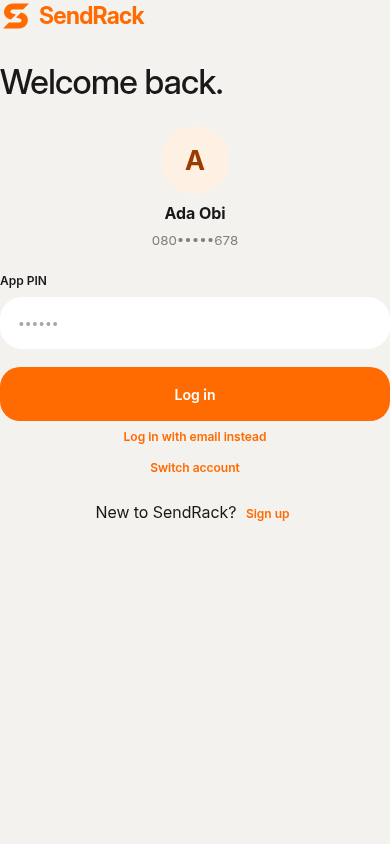
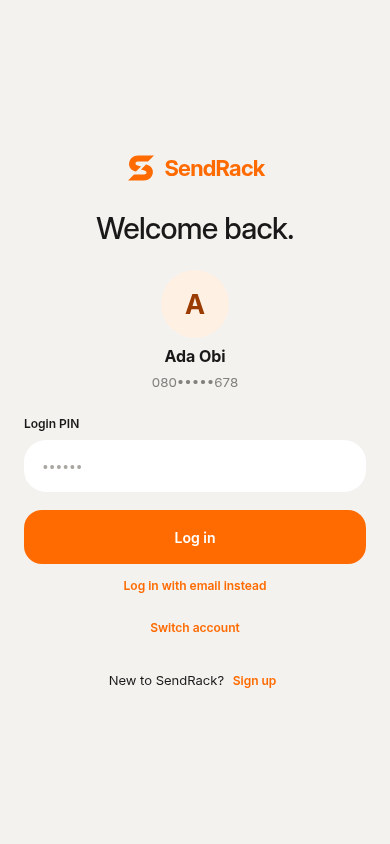
Simplify SendRack entry, add provider bank selection and rider previews

diff --git a/web/app.js b/web/app.js
@@ -51,7 +51,7 @@ function renderGate(){
  features.theme();
  if(gate==='access'){renderAccess();return;}
  if(gate==='pin-setup'||gate==='unlock'){renderLock();return;}
- if(gate==='splash'){app.innerHTML=`<main class="onboard splash"><div class="loading-brand">${brand()}</div><p>DELIVER WITH CONFIDENCE</p><span class="sr-only" role="status">Loading SendRack</span></main>`;return;}
+ if(gate==='splash'){app.innerHTML=`<main class="onboard splash"><div class="loading-brand" aria-hidden="true">${brand().replace('SendRack</div>','</div>')}</div><span class="sr-only" role="status">Loading SendRack</span></main>`;return;}
  if(gate==='setup'){
   if(setupStep===2){renderSignupIdentity();return;}
   const isVendor=setupRole==='vendor',last=setupStep===1;
@@ -105,14 +105,14 @@ function renderAccess(){
  const signing=cloudIntent==='signup'&&cloud;
  const name=remembered?.profile?.ownerName||remembered?.profile?.fullName||remembered?.profile?.businessName||'';
  const phone=remembered?.profile?.phone||'',masked=phone?phone.slice(0,3)+'•••••'+phone.slice(-3):'';
- app.innerHTML=`<main class="onboard access-screen">${brand()}<h1>${signing?'Verify your email.':remembered&&!accessSwitch?'Welcome back.':'Log in to SendRack.'}</h1>${signing?'<p class="subtitle">One code to finish your signup. Your ID upload is saved.</p>':remembered&&!accessSwitch?`<div class="remembered-account"><span class="avatar">${esc(name.slice(0,1).toUpperCase())}</span><strong>${esc(name)}</strong><small>${esc(masked)}</small></div>`:'<p class="subtitle">Your deliveries, all in one place.</p>'}${!signing&&(accessSwitch||!remembered)?`<label class="access-role-label">Account type<select id="login-role"><option value="vendor" ${role==='vendor'?'selected':''}>Vendor</option><option value="rider" ${role==='rider'?'selected':''}>Rider</option></select></label>`:''}${cloud?`<form id="cloud-login">${authChannel==='sms'?input('Phone number','accountPhone','08012345678','required type="tel" '+(signing?'readonly':''),accountChallenge?.phone||(signing?setupDraft.phone:phone)||''):''}${authChannel==='email'?input('Email address','accountEmail','you@example.com','required type="email" maxlength="254" autocomplete="email" '+(accountChallenge?'readonly':''),accountChallenge?.email||emailSigninDraft||local?.email||''):''}${accountChallenge?input(authChannel==='email'?'Email verification code':'SMS verification code','accountCode','6 digits','required inputmode="numeric" pattern="[0-9]{6}" maxlength="6" autocomplete="one-time-code"'):''}<p class="error" id="access-error" role="alert"></p><button class="primary wide" type="submit">${accountChallenge?.session?'Finish signup':accountChallenge?'Verify code':'Send login code'}</button>${accountChallenge&&!accountChallenge.session?'<button class="textbutton wide" type="button" id="resend-code">Resend code</button><button class="textbutton wide" type="button" id="change-email">Change '+(authChannel==='email'?'email':'phone')+'</button>':''}</form>${!signing&&remembered?'<button class="textbutton wide" id="use-device-login">Use my app PIN</button>':''}`:`<form id="local-login">${remembered&&!accessSwitch?`<input type="hidden" name="loginPhone" value="${esc(phone)}">`:input('Phone number','loginPhone','Your account phone','required type="tel"',phone)}${input('App PIN','loginPin','••••••','required type="password" inputmode="numeric" pattern="[0-9]{6}" maxlength="6" autocomplete="off"')}<p class="error" id="access-error" role="alert"></p><button class="primary wide" type="submit">Log in</button></form>${base?'<button class="textbutton wide" id="use-cloud-login">Log in with email instead</button>':''}`}${!signing?'<button class="textbutton wide" id="switch-account">Switch account</button><p class="access-signup-line">New to SendRack? <button class="textbutton" id="access-signup">Sign up</button></p>':''}</main>`;
+ app.innerHTML=`<main class="onboard access-screen">${brand()}<h1>${signing?'Verify your email.':remembered&&!accessSwitch?'Welcome back.':'Log in to SendRack.'}</h1>${signing?'<p class="subtitle">One code to finish your signup. Your ID upload is saved.</p>':remembered&&!accessSwitch?`<div class="remembered-account"><span class="avatar">${esc(name.slice(0,1).toUpperCase())}</span><strong>${esc(name)}</strong><small>${esc(masked)}</small></div>`:'<p class="subtitle">Your deliveries, all in one place.</p>'}${!signing&&(accessSwitch||!remembered)?`<label class="access-role-label">Account type<select id="login-role"><option value="vendor" ${role==='vendor'?'selected':''}>Vendor</option><option value="rider" ${role==='rider'?'selected':''}>Rider</option></select></label>`:''}${cloud?`<form id="cloud-login">${authChannel==='sms'?input('Phone number','accountPhone','08012345678','required type="tel" '+(signing?'readonly':''),accountChallenge?.phone||(signing?setupDraft.phone:phone)||''):''}${authChannel==='email'?input('Email address','accountEmail','you@example.com','required type="email" maxlength="254" autocomplete="email" '+(accountChallenge?'readonly':''),accountChallenge?.email||emailSigninDraft||local?.email||''):''}${accountChallenge?input(authChannel==='email'?'Email verification code':'SMS verification code','accountCode','6 digits','required inputmode="numeric" pattern="[0-9]{6}" maxlength="6" autocomplete="one-time-code"'):''}<p class="error" id="access-error" role="alert"></p><button class="primary wide" type="submit">${accountChallenge?.session?'Finish signup':accountChallenge?'Verify code':'Send login code'}</button>${accountChallenge&&!accountChallenge.session?'<button class="textbutton wide" type="button" id="resend-code">Resend code</button><button class="textbutton wide" type="button" id="change-email">Change '+(authChannel==='email'?'email':'phone')+'</button>':''}</form>${!signing&&remembered?'<button class="textbutton wide" id="use-device-login">Use my login PIN</button>':''}`:`<form id="local-login">${remembered&&!accessSwitch?`<input type="hidden" name="loginPhone" value="${esc(phone)}">`:input('Phone number','loginPhone','Your account phone','required type="tel"',phone)}${input('Login PIN','loginPin','••••••','required type="password" inputmode="numeric" pattern="[0-9]{6}" maxlength="6" autocomplete="off"')}<p class="error" id="access-error" role="alert"></p><button class="primary wide" type="submit">Log in</button></form>${base?'<button class="textbutton wide" id="use-cloud-login">Log in with email instead</button>':''}`}${!signing?'<button class="textbutton wide" id="switch-account">Switch account</button><p class="access-signup-line">New to SendRack? <button class="textbutton" id="access-signup">Sign up</button></p>':''}</main>`;
  app.querySelector('#switch-account')?.addEventListener('click',()=>{accessSwitch=true;accountChallenge=null;cloudIntent='login';renderAccess();});
  app.querySelector('#login-role')?.addEventListener('change',e=>{setupRole=e.target.value;accountChallenge=null;emailSigninDraft='';renderAccess();});
  app.querySelectorAll('[data-access-role]').forEach(b=>b.onclick=()=>{setupRole=b.dataset.accessRole;pendingIdentity=null;accountChallenge=null;accessMode='device';renderAccess();});
  app.querySelector('#access-signup')?.addEventListener('click',()=>{accessChoosingRole=true;renderAccess();});const accessLogin=app.querySelector('#access-login');if(accessLogin)accessLogin.onclick=()=>{pendingIdentity=null;accessMode='device';cloudIntent='login';accountChallenge=null;renderAccess();};
  app.querySelector('#use-cloud-login')?.addEventListener('click',()=>{if(!base){toast('Email login is not available yet. Use the PIN for an account on this phone.');return;}authChannel='email';accessMode='cloud';cloudIntent='login';accountChallenge=null;renderAccess();});
  app.querySelector('#use-device-login')?.addEventListener('click',()=>{pendingIdentity=null;accessMode='device';accountChallenge=null;renderAccess();});
- app.querySelector('#local-login')?.addEventListener('submit',async e=>{e.preventDefault();const epoch=authEpoch;const error=app.querySelector('#access-error');const f=new FormData(e.target);const record=findAccount(data,role,f.get('loginPhone'));try{if(!record)throw new Error('No saved account matches this phone and role. Sign up or use your verified email.');if(!record.pin)throw new Error('This older account needs its existing phone verification before setting a new PIN. Contact support if SMS is unavailable.');if(Date.now()<(record.pin.lockedUntil||0))throw new Error('Too many incorrect PINs. Wait five minutes.');const checkedHash=await pinHash(f.get('loginPin'),record.pin.salt);if(epoch!==authEpoch)return;if(checkedHash!==record.pin.hash){const attempts=(record.pin.attempts||0)+1;const changed={...record,pin:{...record.pin,attempts,lockedUntil:attempts>=5?Date.now()+300000:0}};commit({...data,roleLocks:data.activeRole===role&&normalizePhone(data.accounts[role]?.phone)===normalizePhone(record.profile.phone)?{...data.roleLocks,[role]:changed.pin}:data.roleLocks,deviceAccounts:{...data.deviceAccounts,[accountKey(role,record.profile.phone)]:changed}});throw new Error('Incorrect app PIN.');}enterRecord({...record,pin:{...record.pin,attempts:0,lockedUntil:0}});}catch(err){error.textContent=err.message;}});
+ app.querySelector('#local-login')?.addEventListener('submit',async e=>{e.preventDefault();const epoch=authEpoch;const error=app.querySelector('#access-error');const f=new FormData(e.target);const record=findAccount(data,role,f.get('loginPhone'));try{if(!record)throw new Error('No saved account matches this phone and role. Sign up or use your verified email.');if(!record.pin)throw new Error('This older account needs its existing phone verification before setting a new PIN. Contact support if SMS is unavailable.');if(Date.now()<(record.pin.lockedUntil||0))throw new Error('Too many incorrect PINs. Wait five minutes.');const checkedHash=await pinHash(f.get('loginPin'),record.pin.salt);if(epoch!==authEpoch)return;if(checkedHash!==record.pin.hash){const attempts=(record.pin.attempts||0)+1;const changed={...record,pin:{...record.pin,attempts,lockedUntil:attempts>=5?Date.now()+300000:0}};commit({...data,roleLocks:data.activeRole===role&&normalizePhone(data.accounts[role]?.phone)===normalizePhone(record.profile.phone)?{...data.roleLocks,[role]:changed.pin}:data.roleLocks,deviceAccounts:{...data.deviceAccounts,[accountKey(role,record.profile.phone)]:changed}});throw new Error('Incorrect login PIN.');}enterRecord({...record,pin:{...record.pin,attempts:0,lockedUntil:0}});}catch(err){error.textContent=err.message;}});
  const codePath=authChannel==='email'?'/api/accounts/email':'/api/accounts';
  async function sendAccessCode(form){
   const fields=new FormData(form),email=String(fields.get('accountEmail')||'').trim().toLowerCase(),phone=normalizePhone(fields.get('accountPhone')||setupDraft.phone||local?.phone);
@@ -149,7 +149,7 @@ async function pinHash(pin,salt){const key=await crypto.subtle.importKey('raw',n
 function requestLogout(){pendingAccount=stashAccount(data).deviceAccounts[accountKey(activeRole(),account().phone)];pinPurpose='logout';if(!pendingAccount?.pin){gate='pin-setup';renderGate();}else performLogout();}
 async function performLogout(){const role=activeRole();const saved=stashAccount(data);const key=accountKey(role,account().phone);const record=saved.deviceAccounts[key];const oldSession=record?.connection;features.clearTransient(role);const updated={...record,connection:null,...(role==='vendor'&&oldSession&&!oldSession.verified?{legacyRecovery:oldSession.token}:{})};if(!commit({...saved,activeRole:null,activeAccountKey:null,loggedOut:true,connection:null,riderConnection:null,shipments:[],riderJobs:[],profile:{name:'',phone:''},deviceAccounts:{...saved.deviceAccounts,[key]:updated}}))return;selected=null;query='';filter='All';shipmentDraft={};shipmentBasket=[];setupDraft={};setupRole=null;modal=false;gate='access';accessMode='device';setupRole=role;renderGate();if(oldSession)request(oldSession.base,'/api/auth/logout',{method:'POST',headers:{Authorization:'Bearer '+oldSession.token},body:'{}'}).catch(()=>{});toast('Logged out. Your saved records are kept.');}
 
-function renderLock(){const role=pendingAccount?.role||setupRole||activeRole();app.innerHTML=`<main class="onboard setup-page pin-card">${brand()}<button class="back" id="pin-back" aria-label="Go back">${icon('arrow')}</button><p class="eyebrow">${role.toUpperCase()} ACCOUNT PIN</p><h1>Create your PIN.</h1><p class="subtitle">Use six digits to log in to this saved ${role} account. You will need this PIN whenever you reopen the app.</p><form id="pin-form">${input('6-digit app PIN','appPin','••••••','required type="password" inputmode="numeric" pattern="[0-9]{6}" maxlength="6" autocomplete="off"')}${input('Confirm app PIN','confirmPin','••••••','required type="password" inputmode="numeric" pattern="[0-9]{6}" maxlength="6" autocomplete="off"')}<p class="error" id="pin-error" role="alert"></p><button class="primary wide" type="submit">${pinPurpose==='logout'?'Save PIN and log out':'Save PIN and continue'}</button></form></main>`;app.querySelector('#pin-back').onclick=()=>{gate=pinPurpose==='logout'?'app':'access';render();};app.querySelector('#pin-form').onsubmit=async e=>{e.preventDefault();const epoch=authEpoch;const f=new FormData(e.target),error=app.querySelector('#pin-error');try{const pin=f.get('appPin');if(!/^\d{6}$/.test(pin)||pin!==f.get('confirmPin'))throw new Error('Enter the same six-digit PIN twice.');const salt=crypto.randomUUID(),hash=await pinHash(pin,salt);if(epoch!==authEpoch)return;const record={...pendingAccount,pin:{salt,hash,attempts:0,lockedUntil:0}};if(pinPurpose==='logout'){if(commit(activateAccount(data,record)))await performLogout();return;}features.clearTransient('rider');if(!commit(activateAccount(data,record)))return;shipmentBasket=data.shipmentBasket||[];pendingAccount=null;pendingIdentity=null;gate='app';view='home';render();sync();}catch(err){error.textContent=err.message;}};}
+function renderLock(){const role=pendingAccount?.role||setupRole||activeRole();app.innerHTML=`<main class="onboard setup-page pin-card">${brand()}<button class="back" id="pin-back" aria-label="Go back">${icon('arrow')}</button><p class="eyebrow">${role.toUpperCase()} ACCOUNT PIN</p><h1>Create your PIN.</h1><p class="subtitle">Use six digits to log in to this saved ${role} account. You will need this PIN whenever you reopen the app.</p><form id="pin-form">${input('6-digit login PIN','appPin','••••••','required type="password" inputmode="numeric" pattern="[0-9]{6}" maxlength="6" autocomplete="off"')}${input('Confirm login PIN','confirmPin','••••••','required type="password" inputmode="numeric" pattern="[0-9]{6}" maxlength="6" autocomplete="off"')}<p class="error" id="pin-error" role="alert"></p><button class="primary wide" type="submit">${pinPurpose==='logout'?'Save PIN and log out':'Save PIN and continue'}</button></form></main>`;app.querySelector('#pin-back').onclick=()=>{gate=pinPurpose==='logout'?'app':'access';render();};app.querySelector('#pin-form').onsubmit=async e=>{e.preventDefault();const epoch=authEpoch;const f=new FormData(e.target),error=app.querySelector('#pin-error');try{const pin=f.get('appPin');if(!/^\d{6}$/.test(pin)||pin!==f.get('confirmPin'))throw new Error('Enter the same six-digit PIN twice.');const salt=crypto.randomUUID(),hash=await pinHash(pin,salt);if(epoch!==authEpoch)return;const record={...pendingAccount,pin:{salt,hash,attempts:0,lockedUntil:0}};if(pinPurpose==='logout'){if(commit(activateAccount(data,record)))await performLogout();return;}features.clearTransient('rider');if(!commit(activateAccount(data,record)))return;shipmentBasket=data.shipmentBasket||[];pendingAccount=null;pendingIdentity=null;gate='app';view='home';render();sync();}catch(err){error.textContent=err.message;}};}
 
 function captureSetup(){const form=app.querySelector('#setup-form');if(form)for(const [k,v]of new FormData(form))if(k!=='acknowledged')setupDraft[k]=clean(v,k==='pickupAddress'?240:80);}
 function stats(){const list=jobs();return `<div class="stats">${[[list.length,'Total packages','All'],[list.filter(s=>['In transit','Out for delivery','Delivery OTP sent'].includes(s.status)).length,'In transit','In transit'],[list.filter(s=>(!terminal(s)&&!['In transit','Out for delivery','Delivery OTP sent'].includes(s.status))).length,'On process','On process'],[list.filter(s=>s.status==='Delivered').length,'Delivered','Delivered']].map(([value,label,f])=>`<button class="stat" data-stat="${f}"><b>${value}</b><span>${label}</span><span class="stat-arrow">${icon('up')}</span></button>`).join('')}</div>`;}

diff --git a/docs/app-corrections/previews/index.html b/docs/app-corrections/previews/index.html
@@ -1,0 +1,1 @@
+<!doctype html><html lang="en"><meta charset="utf-8"><meta name="viewport" content="width=device-width,initial-scale=1"><title>SendRack app corrections and rider previews</title><style>body{margin:0;padding:28px;font:16px system-ui;background:#f7f3ed;color:#24211f}h1{font-size:28px}p{max-width:850px;line-height:1.6}.grid{display:grid;grid-template-columns:repeat(auto-fit,minmax(260px,1fr));gap:24px}figure{margin:0;background:white;padding:16px;border-radius:20px}img{width:100%;height:auto;display:block;border-radius:12px}figcaption{font-weight:600;margin:0 0 14px}a{color:#ac4900}</style><h1>SendRack app corrections and rider screens</h1><p>Browser captures of the actual SendRack app at 390 × 844, using isolated sample accounts and sample money. These are previews, not real customers or bank balances. Bank verification is not connected. Nearby offers and notifications show their genuine empty states. Tracking tiles could not load in the restricted environment; the screen correctly reports map unavailability and missing handler GPS. No rider movement is simulated. Android physical-device behaviour has not been tested.</p><div class="grid"><figure><figcaption>Startup Logo</figcaption><a href="startup-logo.png"><img loading="lazy" src="startup-logo.png" alt="startup logo"></a></figure><figure><figcaption>Remembered Login</figcaption><a href="remembered-login.png"><img loading="lazy" src="remembered-login.png" alt="remembered login"></a></figure><figure><figcaption>New Account Login</figcaption><a href="new-account-login.png"><img loading="lazy" src="new-account-login.png" alt="new account login"></a></figure><figure><figcaption>Bank Account Lookup</figcaption><a href="bank-account-lookup.png"><img loading="lazy" src="bank-account-lookup.png" alt="bank account lookup"></a></figure><figure><figcaption>Rider Home</figcaption><a href="rider-home.png"><img loading="lazy" src="rider-home.png" alt="rider home"></a></figure><figure><figcaption>Rider Deliveries</figcaption><a href="rider-deliveries.png"><img loading="lazy" src="rider-deliveries.png" alt="rider deliveries"></a></figure><figure><figcaption>Rider Nearby</figcaption><a href="rider-nearby.png"><img loading="lazy" src="rider-nearby.png" alt="rider nearby"></a></figure><figure><figcaption>Rider Add Delivery</figcaption><a href="rider-add-delivery.png"><img loading="lazy" src="rider-add-delivery.png" alt="rider add delivery"></a></figure><figure><figcaption>Rider Shipment Details</figcaption><a href="rider-shipment-details.png"><img loading="lazy" src="rider-shipment-details.png" alt="rider shipment details"></a></figure><figure><figcaption>Rider Tracking</figcaption><a href="rider-tracking.png"><img loading="lazy" src="rider-tracking.png" alt="rider tracking"></a></figure><figure><figcaption>Rider Notifications</figcaption><a href="rider-notifications.png"><img loading="lazy" src="rider-notifications.png" alt="rider notifications"></a></figure><figure><figcaption>Rider Profile</figcaption><a href="rider-profile.png"><img loading="lazy" src="rider-profile.png" alt="rider profile"></a></figure><figure><figcaption>Rider Wallet</figcaption><a href="rider-wallet.png"><img loading="lazy" src="rider-wallet.png" alt="rider wallet"></a></figure><figure><figcaption>Rider Withdraw</figcaption><a href="rider-withdraw.png"><img loading="lazy" src="rider-withdraw.png" alt="rider withdraw"></a></figure><figure><figcaption>Rider Transaction Pin</figcaption><a href="rider-transaction-pin.png"><img loading="lazy" src="rider-transaction-pin.png" alt="rider transaction pin"></a></figure><figure><figcaption>Rider Signup Details</figcaption><a href="rider-signup-details.png"><img loading="lazy" src="rider-signup-details.png" alt="rider signup details"></a></figure><figure><figcaption>Rider City And Keke</figcaption><a href="rider-city-and-keke.png"><img loading="lazy" src="rider-city-and-keke.png" alt="rider city and keke"></a></figure><figure><figcaption>Single Id Upload</figcaption><a href="single-id-upload.png"><img loading="lazy" src="single-id-upload.png" alt="single id upload"></a></figure></div></html>

diff --git a/web/style.css b/web/style.css
@@ -25,3 +25,12 @@
 .customer-balance.wallet-home{display:flex;align-items:center;justify-content:space-between;gap:14px;padding:18px 20px}.wallet-home h2{font-size:27px;margin:10px 0}.wallet-home .customer-wallet-actions{flex-direction:column;gap:7px;min-width:96px}.wallet-home .customer-wallet-actions button{padding:9px 10px;font-size:12px}.balance-open{background:none;color:inherit;font:inherit;border:0;padding:0;text-align:left;cursor:pointer}.move-banner{padding:14px 18px}.move-banner img{height:66px;width:98px}.vehicle-card img{height:106px}.vehicle-card{padding:12px 14px 16px}.service-heading{margin-top:20px}
 
 .pickup-shortcut{display:flex;align-items:center;gap:12px;width:100%;padding:16px;border:0;border-radius:16px;background:var(--card,#fff);font:inherit;color:inherit;text-align:left;cursor:pointer}.pickup-shortcut svg{width:22px;height:22px}.pickup-shortcut span{flex:1}.pickup-shortcut strong{font-size:14px}.pickup-shortcut small{display:block;font-size:11px;color:var(--muted);margin-top:4px}
+
+/* Focused account entry, with one consistent content column. */
+.onboard.access-screen{width:100%;max-width:440px;margin:0 auto;padding:36px 24px max(32px,env(safe-area-inset-bottom));min-height:100dvh;text-align:center;display:flex;flex-direction:column;justify-content:center;gap:0}
+.access-screen>.brand{justify-content:center;font-size:22px;margin:0 0 18px}.access-screen h1{font-size:30px;line-height:1.2;margin:8px 0 12px}.access-screen .subtitle{margin:0 0 22px}.access-screen form,.access-screen .access-role-label{text-align:left;width:100%}.access-screen .remembered-account{margin:12px 0 26px;gap:8px}.access-screen .field{margin-bottom:18px}.access-screen .primary{border-radius:18px}.access-screen .access-signup-line{font-size:13px;margin-top:18px}.access-screen>.textbutton{min-height:42px}.access-screen .error:empty{display:none}
+.splash .loading-brand .brand{font-size:0;gap:0;animation:none}.splash .loading-brand .brand-mark{width:112px;height:112px;animation:sendrack-logo-spin 3s linear infinite;transform-origin:center}.splash .loading-brand{margin:0!important;animation:none!important}.splash{display:flex;align-items:center;justify-content:center;flex-direction:column;padding:24px}.splash>p{display:none}
+@keyframes sendrack-logo-spin{to{transform:rotate(360deg)}}
+.bank-lookup{padding:14px 16px;background:var(--paper);border-radius:16px;margin:0 0 18px;font-size:13px;line-height:1.5}.bank-lookup:empty{display:none}.bank-lookup strong,.bank-lookup small{display:block}.bank-lookup small{color:var(--muted);margin-top:5px}.bank-search{margin-bottom:8px}
+@media(prefers-reduced-motion:reduce){.splash .loading-brand .brand-mark{animation:none}}
+@media(max-height:700px){.onboard.access-screen{justify-content:flex-start;padding-top:24px}}

diff --git a/docs/app-corrections/LOGIN-BANK-RIDER.md b/docs/app-corrections/LOGIN-BANK-RIDER.md
@@ -1,0 +1,10 @@
+# Login, branding, bank selection and rider review
+
+- Startup: larger standalone SendRack mark rotates smoothly; no wordmark or tagline. Reduced motion keeps it still.
+- Login: centred, bounded content column; remembered identity and masked phone remain; “Login PIN” replaces “App PIN”. Email verification and account switching are preserved.
+- APK: visible brand and Android launcher label are SendRack, version 0.7.4/code 4. Existing ng.sendrack.test application ID and retained d34b55d2982e55a2623157423ba2ad634ce2844c482144b53f53d88f0b8ecfa5 signing certificate remain. Original app signing identity is untouched. Updates preserve this installation’s records; original installation-only data does not transfer automatically.
+- Withdraw: search bank names, choose a provider-supplied bank, enter ten-digit account number. Resolve through WalletProvider before Continue. Changes invalidate the old beneficiary; stale responses cannot re-enable Continue. Lookup failures retain inputs and offer retry. Quotes still resolve server-side, with existing PIN/OTP/KYC/approval safeguards.
+- Provider: added listBanks() to WalletProvider. Only MockBankProvider is currently implemented; its directory and beneficiary are explicitly synthetic. Production refuses mock money APIs. Real directory/account resolution needs the approved partner-bank adapter and documented APIs; no scraping or invented bank codes/endpoints. No credentials belong in source or chat.
+- Rider gallery: previews/index.html and downloadable ZIP include actual rider home, delivery list/detail, nearby empty state, add delivery, tracking, notifications, profile, wallet, withdrawal, PIN settings and signup/ID screens, with isolated sample data.
+
+Validation: 68 application tests and 35 wallet tests passed, zero skips with disposable PostgreSQL/Redis. Chromium UI tests cover 320/390/1366/1920 login containment, reduced motion, lookup outage/retry/invalidation, existing wallet/PIN/OTP/shipment/signup flows and rider navigation. Extracted signed APK assets also run through the UI tests and source-hash checks. No physical Android device is attached. Map tiles/live Render cannot be verified under this environment’s enforced network policy. Existing Render resources, free plans, settings and database were not changed.
